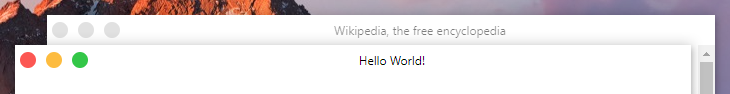
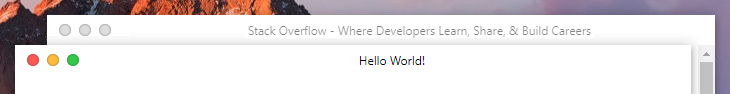
Update macOS style

Changed region(s): [[0.3315, 0.2766, 0.8137, 0.4043], [0.0603, 0.234, 0.1808, 0.4043], [0.0301, 0.5532, 0.1205, 0.7234]]

diff --git a/src/style/style.scss b/src/style/style.scss
@@ -142,20 +142,14 @@
   &.darwin {
     &.inactive {
       #controls:not(:hover) .button::before {
-        background: #000 !important;
-        opacity: 0.12;
-      }
-
-      &.dark {
-        #controls:not(:hover) .button::before {
-          background: #fff !important;
-        }
+        background: #ddd !important;
       }
     }
 
     #controls {
       order: -1;
       flex-direction: row-reverse;
+      margin: 0 8px;
 
       &:not(:hover) {
         .button svg {
@@ -164,17 +158,16 @@
       }
 
       .button {
-        width: 26px;
+        width: 20px;
 
         &::before {
           content: '';
           display: block;
           position: absolute;
-          width: 16px;
-          height: 16px;
-          top: 7px;
-          left: 5px;
+          width: 12px;
+          height: 12px;
           border-radius: 10px;
+          box-shadow: inset 0 0 2px rgba(0,0,0,.5);
         }
 
         &:active::before {
@@ -203,10 +196,9 @@
         }
 
         svg {
-          width: 14px;
-          height: 14px;
-          margin: 8px 0px;
-          opacity: 0.5;
+          width: 10px;
+          height: 10px;
+          opacity: 0.6;
 
           & > * {
             fill: rgb(0, 0, 0);

diff --git a/src/index.ts b/src/index.ts
@@ -276,7 +276,7 @@ const applyTheme = () => {
   titlebar.classList.toggle(style.locals.darwin, platform == 'darwin');
   minimizeWindow.innerHTML = svgs.minimize;
   maximizeWindow.innerHTML = svgs.maximize;
-  restoreWindow.innerHTML = platform == 'darwin' ? svgs.maximize : svgs.restore;
+  restoreWindow.innerHTML = svgs.restore;
   closeWindow.innerHTML = svgs.close;
 };
 
